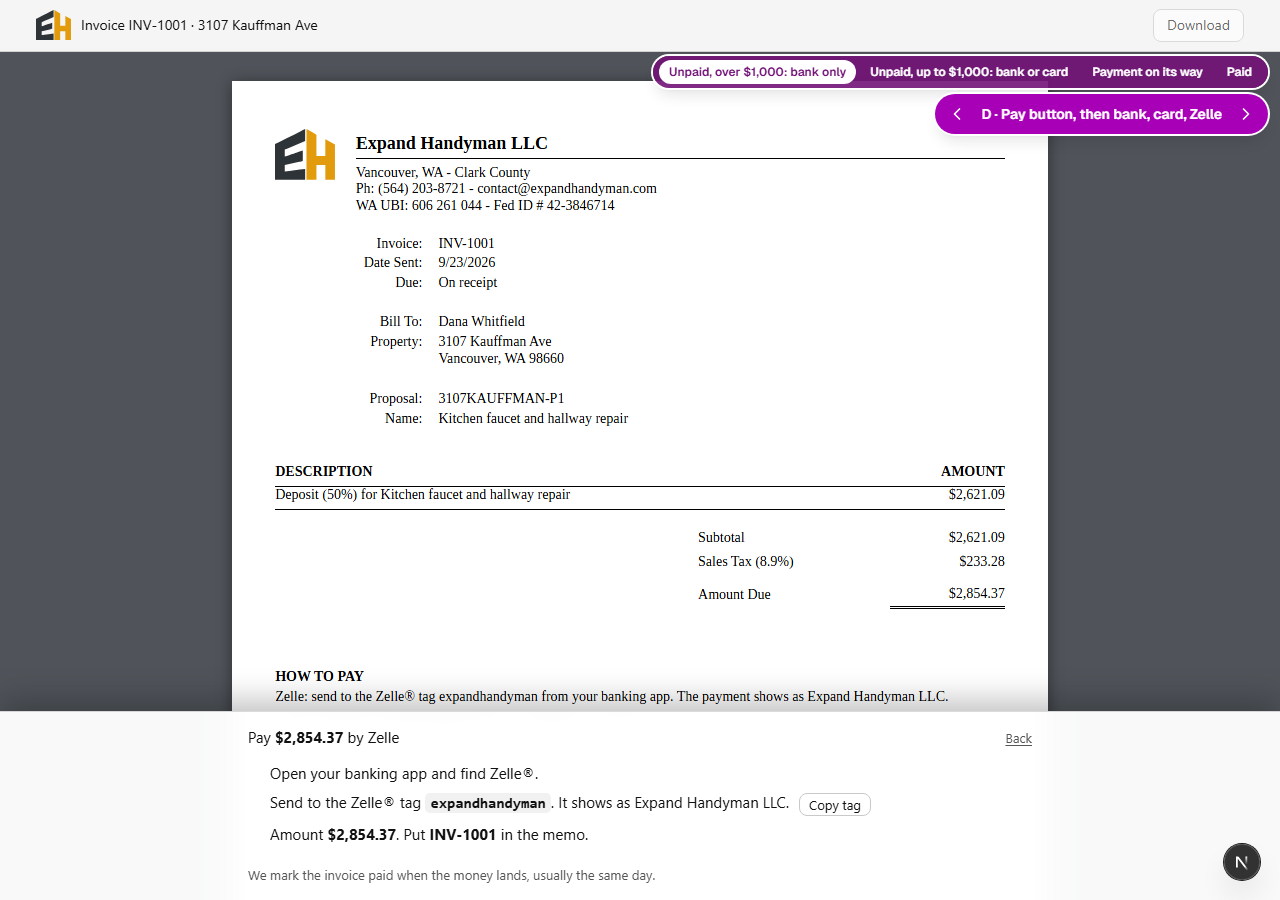
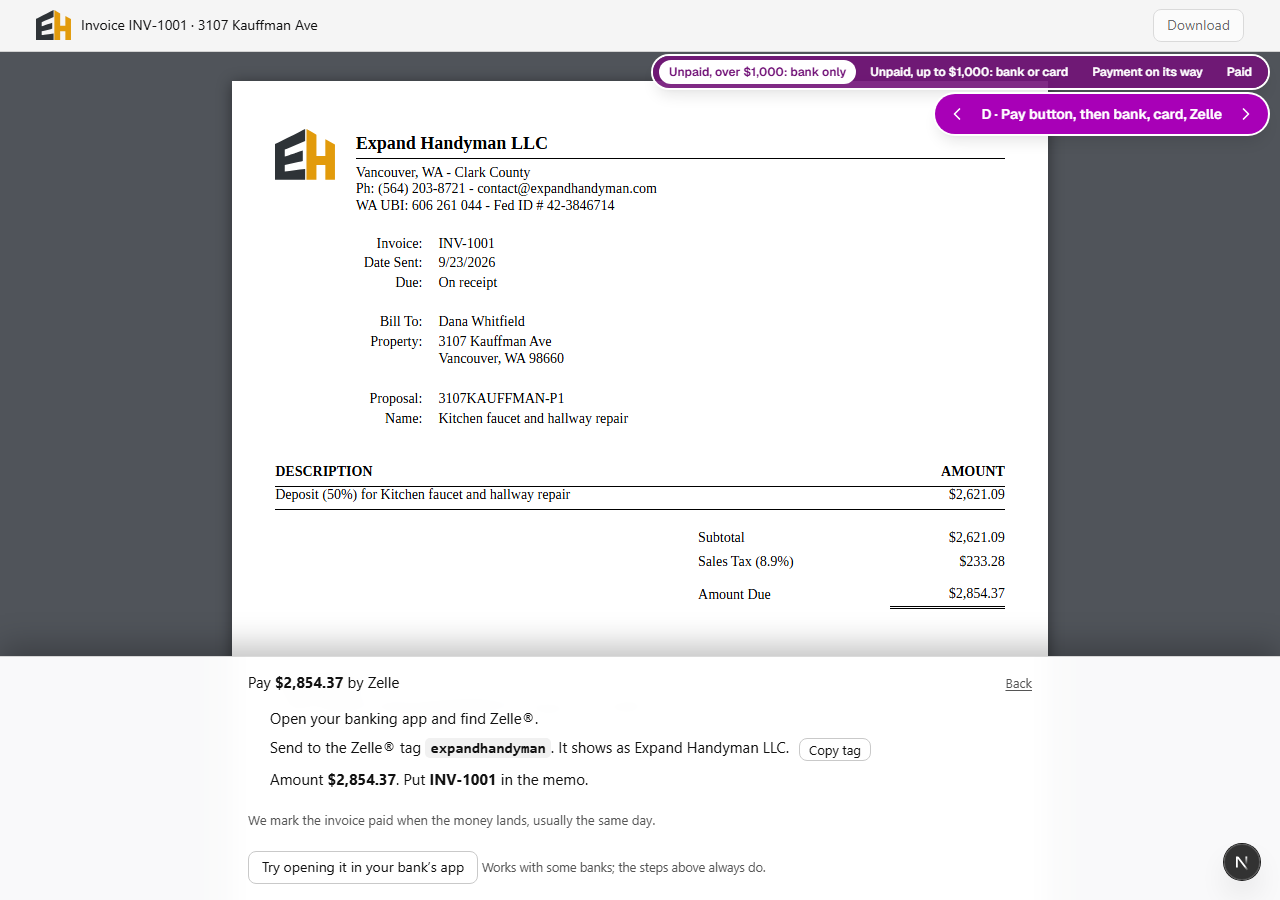
Sketch D: a Try-opening-it button in the Zelle step, from the QR address (#112, #116)

Changed region(s): [[0.0, 0.6844, 1.0, 0.9956], [0.625, 0.8711, 0.6875, 0.9022]]

diff --git a/components/prototype-pay-now/link-prototype.tsx b/components/prototype-pay-now/link-prototype.tsx
@@ -20,6 +20,7 @@ import {
   payChoices,
   Readings,
   shortDay,
+  ZelleQrUrl,
   ZelleTag,
   type PayChoice,
   type Reading,
@@ -421,6 +422,19 @@ function ThreeWaysSheet({
               </ol>
               <p className="pn-card-text">
                 We mark the invoice paid when the money lands, usually the same day.
+              </p>
+              {/* The address inside the bank's QR code. Tapped, it opens Zelle's
+                  find-your-bank page; a few big banks then pass the tag into
+                  their app, most only say "scan this in your banking app", and
+                  the amount never comes along (#116). Here so the owner can
+                  judge whether it earns a place. */}
+              <p className="pn-card-text">
+                <a className="paper-btn" href={ZelleQrUrl} target="_blank" rel="noreferrer">
+                  Try opening it in your bank&rsquo;s app
+                </a>{" "}
+                <span className="pn-choice-note">
+                  Works with some banks; the steps above always do.
+                </span>
               </p>
             </>
           ) : (

diff --git a/components/prototype-pay-now/fixtures.ts b/components/prototype-pay-now/fixtures.ts
@@ -16,6 +16,11 @@ export const TaxRate = 0.089;
 // Handyman LLC.", so the setting carries the words that complete it.
 export const ZelleTag = "expandhandyman";
 export const ZelleEmail = `the Zelle® tag ${ZelleTag} from your banking app`;
+// What the bank's QR code encodes: Zelle's find-your-bank page with the tag
+// and name as base64 JSON. Decoded from the owner's U.S. Bank code (#116).
+export const ZelleQrUrl =
+  "https://enroll.zellepay.com/qr-codes?data=" +
+  btoa(JSON.stringify({ token: ZelleTag, name: "EXPAND", action: "PAYMENT" }));
 
 // ── The ways to pay online, as the map settled them on 2026-09-23 ────────
 // Bank is always offered; card only when Amount Due is $1,000 or less. No
